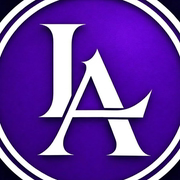
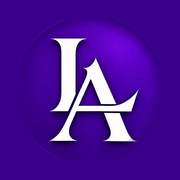
fix(pwa): perkecil monogram LA pada ikon maskable
- ikon maskable 192/512: monogram LA dikecilkan (artwork 800 dari kanvas 1024) di atas ungu #3B018A dengan tepi disc dilembutkan, jadi tidak ada cincin/latar putih maupun jahitan

- ikon any 192/512: pakai crop persegi logo apa adanya supaya margin navy rapi tanpa jahitan kompositing

- apple-icon ikut komposisi baru (iOS)

- service worker cache dinaikkan ke lintasair-v2 agar ikon lama di perangkat diganti

diff --git a/public/sw.js b/public/sw.js
@@ -8,7 +8,7 @@
 // selain ikon dibiarkan lewat ke jaringan apa adanya, jadi tidak ada risiko
 // penumpang melihat jadwal/harga lama gara-gara cache.
 
-const CACHE = 'lintasair-v1'
+const CACHE = 'lintasair-v2'
 
 const ASET_IKON = [
   '/images/icon-192.png',
